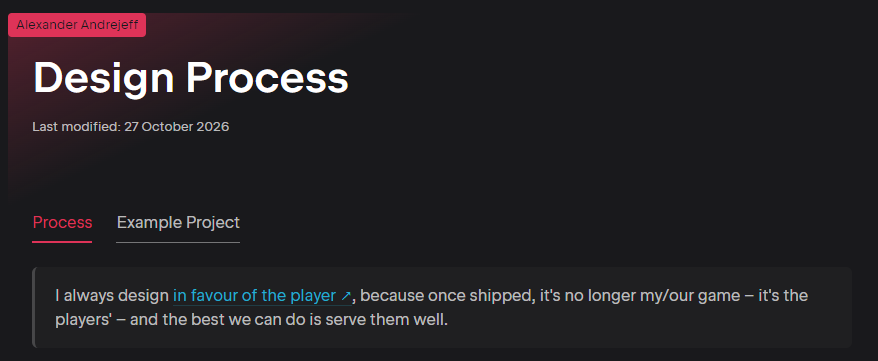
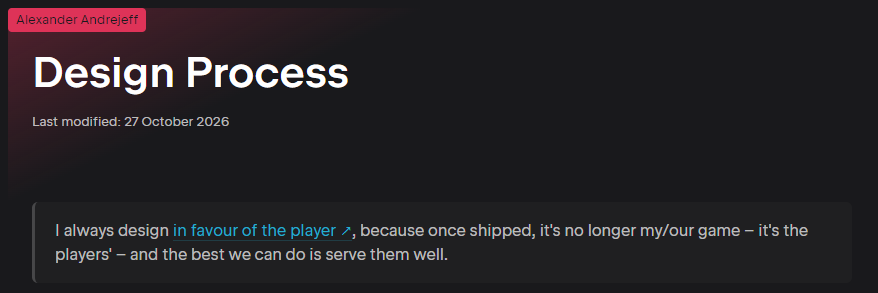
Rename landing page title to own name, instead of 'Portfolio'

diff --git a/Writerside/topics/Design-Process.md b/Writerside/topics/Design-Process.md
@@ -8,11 +8,12 @@
 # Design Process
 <primary-label ref="lum"></primary-label>
 
+<tldr>
+<p>I always design <a href="https://www.riotgames.com/darkroom/original/1b58ddf664999d1e51c7a5ee3908f3e3:aedf85c30ef9072a3f1530b2d05706dc/riot-games-fact-sheet-2023.pdf" summary="Riot Games' mission statement, which I follow wholeheartedly.">in favour of the player</a>, because once shipped, it's no longer my/our game – it's the players' – and the best we can do is serve them well.</p>
+</tldr>
+
 <tabs>
 <tab title="Process" id="v2">
-<quote>
-<p>I always design <a href="https://www.riotgames.com/darkroom/original/1b58ddf664999d1e51c7a5ee3908f3e3:aedf85c30ef9072a3f1530b2d05706dc/riot-games-fact-sheet-2023.pdf" summary="Riot Games' mission statement, which I follow wholeheartedly.">in favour of the player</a>, because once shipped, it's no longer my/our game – it's the players' – and the best we can do is serve them well.</p>
-</quote>
 
 <p>
 Game Design is fundamentally about <a href="https://youtu.be/HqUbpJUiJFI?si=w4aYcasQNCvXvKY5" summary="A talk by Paul Bellezza (of Riot Games) on his journey as a game designer. An early inspiration and professional contact of mine.">solving interaction problems.</a><br/>
@@ -43,7 +44,7 @@ This process closely resembles an <tooltip term="Iterative Design Loop">iterativ
 <deflist type="full" collapsible="true" default-state="collapsed">
 <def title="1. Consider the Players' Problems">
 
-<include from="Portfolio.md" element-id="i-design-for"/>
+<include from="Project-Summaries.md" element-id="i-design-for"/>
 <p>
 Given the player type, I list as many potential interaction problems as I can imagine to give myself a broad overview of what I'm designing.
 This is the first step because it takes the <b>least time and effort</b> – far less than testing each problem in a prototype, for example.

diff --git a/Writerside/topics/Project-Summaries.md b/Writerside/topics/Project-Summaries.md
@@ -1,6 +1,8 @@
 <include from="see-also.topic" element-id="see-also-defaults"></include>
 
-# Portfolio
+<title id="project-summaries">
+Summaries
+</title>
 
 <primary-label ref="lum"></primary-label>
 <secondary-label ref="tech-designer"></secondary-label>
@@ -13,27 +15,9 @@
 <secondary-label ref="p4"></secondary-label>
 <secondary-label ref="github"></secondary-label>
 
-<quote>
-<p>
-Hello, I'm <b>Alexander "Lum" Andrejeff</b>, a Technical Designer based in <b>Stockholm, Sweden</b>.
-</p>
-
-<p>At <tooltip term="Futuregames">Futuregames</tooltip> I specialize in the <b>design <u>and</u> development</b> of <b>gameplay mechanics</b>, <br/><b>complex systems</b>, and <b>backend tech</b> <i>(engine and tooling)</i>.</p>
-
-<p>I bring a <b><a href="Design-Process.md">unique perspective on game design</a></b> through my <b>programming background</b>, tying together engineers, gameplay programmers, and designers.</p>
-</quote>
-
-<procedure>
-<p>Reach out on <a href="https://www.linkedin.com/in/itslumina/">LinkedIn</a> or email me at: <a href="mailto:itsluminas@gmail.com">itsluminas@gmail.com</a>  
-<br/>
-View my <resource src="Resume.pdf"></resource>, watch my <a href="https://youtu.be/1d3kRUk4NzA">Showreel</a>, or read more <b><a href="About-Me.md">About Me.</a></b></p>
-</procedure>
-
-<tip>
-For a complete overview of my portfolio, visit the <b><a href="Overview.topic" summary="A complete overview of my portfolio, including projects, processes, breakdowns, and more.">Overview page.</a></b>
-</tip>
-
----
+<tldr>
+This page provides short project summaries of my responsibilities, tools used, game info, and more.
+</tldr>
 
 ## FATE
 

diff --git a/Writerside/topics/About-Me.md b/Writerside/topics/About-Me.md
@@ -7,14 +7,25 @@
 <secondary-label ref="in"></secondary-label>
 <secondary-label ref="location"></secondary-label>
 
-
-<tldr>
+<quote>
 <p>
-<img src="polaroid profile picture.png" width="325" alt="Me!" border-effect="rounded" style="inline"/>
-&nbsp;
-Hello! I'm Alexander "<b>Lum</b>" Andrejeff.
+Hello, I'm <b>Alexander "Lum" Andrejeff</b>, a Technical Designer based in <b>Stockholm, Sweden</b>.
 </p>
-</tldr>
+
+<p>At <tooltip term="Futuregames">Futuregames</tooltip> I specialize in the <b>design <u>and</u> development</b> of <b>gameplay mechanics</b>, <br/><b>complex systems</b>, and <b>backend tech</b> <i>(engine and tooling)</i>.</p>
+
+<p>I bring a <b><a href="Design-Process.md">unique perspective on game design</a></b> through my <b>programming background</b>, tying together engineers, gameplay programmers, and designers.</p>
+</quote>
+
+<procedure>
+<p>Reach out on <a href="https://www.linkedin.com/in/itslumina/">LinkedIn</a> or email me at: <a href="mailto:itsluminas@gmail.com">itsluminas@gmail.com</a>  
+<br/>
+View my <resource src="Resume.pdf"></resource>, or watch my <a href="https://youtu.be/1d3kRUk4NzA">Showreel.</a></p>
+</procedure>
+
+<tip>
+For the complete portfolio, visit the <b><a href="Portfolio.topic" summary="A visual overview of my portfolio, projects, processes, and more.">Portfolio page.</a></b>
+</tip>
 
 ## Who am I?
 

diff --git a/Writerside/topics/FATE.md b/Writerside/topics/FATE.md
@@ -380,7 +380,7 @@ There is one exception: if the shot's spread trace already lands on a precision 
        <p>
            This was especially important when a hit killed an enemy. If only the death trigger ran, ordinary
            on-hit enchantments would never execute, which would undermine the fantasy of breaking the game through
-           increasingly powerful rogue-lite upgrades. See <a href="Portfolio.md#roles-and-responsibilities_fate">the FATE enchantments overview</a>
+           increasingly powerful rogue-lite upgrades. See <a href="Project-Summaries.md#roles-and-responsibilities_fate">the FATE enchantments overview</a>
            for examples of those upgrades.
        </p>
 &nbsp;
